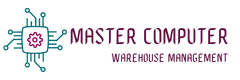
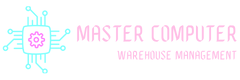
header footer redesigned

Changed region(s): [[0.0, 0.075, 0.9917, 0.925], [0.4667, 0.625, 0.9917, 0.775]]

diff --git a/src/Components/CommonSection/Footer/Footer.js b/src/Components/CommonSection/Footer/Footer.js
@@ -9,33 +9,34 @@ import './Footer.css'
 
 const Footer = () => {
     const copy = '©'
+
+    //dynamic year finding
     const today = new Date();
     const year = today.getFullYear();
 
     return (
 
-        <footer className="text-white text-center text-lg-start bg-dark">
+        <footer className="text-white text-center text-lg-start background">
+            <div className="container pt-3">
+                <div className="row mt-2">
 
-            <div className="container p-4">
-
-                <div className="row mt-4">
-
+                    {/* address on footer */}
                     <div className="col-lg-4 col-md-12 mb-4 mb-md-0">
                         <h5 className="text-uppercase mb-4">Master Computer</h5>
-                        <span className="fa-li"><BsFillCursorFill /></span><span  > Sheikhergaon, Ramsree-3301, Habiganj</span><br />
-                        <span className="fa-li"><BsFillEnvelopeFill /></span><span  > contact@mastercomputer.com</span><br />
-                        <span className="fa-li"><BsFillTelephoneFill /></span><span  > +880 1770000000</span>
+                        <span><BsFillCursorFill /></span><span  > Sheikhergaon, Ramsree-3301, Habiganj</span><br />
+                        <span><BsFillEnvelopeFill /></span><span  > contact@mastercomputer.com</span><br />
+                        <span><BsFillTelephoneFill /></span><span  > +880 1770000000</span>
                     </div>
 
 
-
+                    {/* social link on footer */}
                     <div className="col-lg-4 col-md-6 mb-4 mb-md-0">
                         <h5 className="text-uppercase mb-4 pb-1">Social Links</h5>
                         <p>Visit our official social profiles</p>
 
                         <a href="http://www.facebook.com" className='link-style me-2' target='_blank' rel="noopener noreferrer"> <BsFacebook className='fs-5' /></a>
                         <a href="http://www.instagram.com" className='link-style me-2' target='_blank' rel="noopener noreferrer"> <BsInstagram className='fs-5' /></a>
-                        <a href="http://www.linkedin.com" className='link-style' target='_blank' rel="noopener noreferrer"> <BsLinkedin className='fs-5' /></a>
+                        <a href="https://www.linkedin.com/" className='link-style' target='_blank' rel="noopener noreferrer"> <BsLinkedin className='fs-5' /></a>
 
 
                     </div>
@@ -44,18 +45,14 @@ const Footer = () => {
                         <h5 className="text-uppercase mb-4">Opening hours</h5>
 
                         <table className="table text-center text-white">
-                            <tbody className="fw-normal">
-                                <tr>
-                                    <td>Mon - Thu:</td>
-                                    <td>8am - 9pm</td>
-                                </tr>
+                            <tbody className="fw-small">
                                 <tr>
                                     <td>Fri - Sat:</td>
-                                    <td>8am - 1am</td>
+                                    <td>OFF DAYS</td>
                                 </tr>
                                 <tr>
-                                    <td>Sunday:</td>
-                                    <td>9am - 10pm</td>
+                                    <td>Sun - Thu:</td>
+                                    <td>10am - 8pm</td>
                                 </tr>
                             </tbody>
                         </table>
@@ -65,10 +62,9 @@ const Footer = () => {
 
             </div>
 
-
-
-            <div className="text-center p-3">
-                <p><small>copyright {copy} {year} <a className='link-style' href="#">mastercomputer.com</a><span> Developed by <a className='link-style' href="#">mdgulamasib.com</a> </span> </small> </p>
+            {/* copy right message */}
+            <div className="text-center mb-0">
+                <span><small>copyright {copy} {year} <a className='link-style' href="#">mastercomputer.com</a></small> </span>
             </div>
 
 

diff --git a/src/Components/CommonSection/Header/Header.js b/src/Components/CommonSection/Header/Header.js
@@ -10,43 +10,44 @@ import './Header.css'
 const Header = () => {
     const [user] = useAuthState(auth);
 
+    //signout control function is here
     const handleSignOut = () => {
         signOut(auth);
     }
 
 
     return (
-        <>
+        < div>
             <Navbar collapseOnSelect expand="lg" className='custom-navbar'>
                 <Container>
                     <Navbar.Brand as={Link} to='/'><img src={logo} className='me-md-5 ' height={80} alt="" /></Navbar.Brand>
                     <Navbar.Toggle aria-controls="responsive-navbar-nav" />
                     <Navbar.Collapse id="responsive-navbar-nav">
-                        <Nav className="ms-auto custom-text">
-                            <Nav.Link className='me-md-3' as={Link} to="/">Home</Nav.Link>
-                            <Nav.Link className='me-md-3' as={Link} to="/blog">Blog</Nav.Link>
+                        <Nav className="ms-auto">
+                            <Nav.Link className='me-md-3 text-color' as={Link} to="/"><span className='custom-text'>HOME</span></Nav.Link>
+                            <Nav.Link className='me-md-3' as={Link} to="/blog"><span className='custom-text'>BLOG</span></Nav.Link>
 
                             {
                                 user ?
                                     <Nav>
-                                        <Nav.Link className='me-md-3' as={Link} to="/manageinventory">Manage Items</Nav.Link>
-                                        <Nav.Link className='me-md-3' as={Link} to="/addnewitem">Add Item</Nav.Link>
-                                        <Nav.Link className='me-md-3' as={Link} to="/myitems">My Items</Nav.Link>
+                                        <Nav.Link className='me-md-3' as={Link} to="/manageinventory"><span className='custom-text'>MANAGE ITEMS</span></Nav.Link>
+                                        <Nav.Link className='me-md-3' as={Link} to="/addnewitem"><span className='custom-text'>ADD ITEMS</span></Nav.Link>
+                                        <Nav.Link className='me-md-3' as={Link} to="/myitems"><span className='custom-text'>MY ITEMS</span></Nav.Link>
                                         <Nav.Link onClick={handleSignOut} >
-                                            Sign-out
+                                            <span className='custom-text'>LOGOUT</span>
                                         </Nav.Link>
                                     </Nav>
                                     :
 
                                     <Nav.Link as={Link} to="login">
-                                        Login
+                                        <span className='custom-text'>LOGIN</span>
                                     </Nav.Link>}
 
                         </Nav>
                     </Navbar.Collapse>
                 </Container>
             </Navbar>
-        </>
+        </div>
     );
 };
 

diff --git a/src/Components/CommonSection/Header/Header.css b/src/Components/CommonSection/Header/Header.css
@@ -1,8 +1,14 @@
+/* navbar background color */
 .custom-navbar {
-    background-color: rgba(199, 247, 247, 0.233);
+    background-color: rgb(11, 8, 43);
 }
 
+/* navbar text color and hover effect*/
 .custom-text {
-    font-size: 18px;
-    font-weight: 700;
+    font-size: 15px;
+    color: white;
+}
+
+.custom-text:hover {
+    color: goldenrod;
 }

diff --git a/src/Components/Pages/Home/Banner/Banner.js b/src/Components/Pages/Home/Banner/Banner.js
@@ -1,6 +1,5 @@
 import React from 'react';
 import './Banner.css';
-import { Carousel, CarouselItem, NavItem } from 'react-bootstrap';
 import img1 from '../../../../images/banner/img1.png'
 import img2 from '../../../../images/banner/img2.png'
 import img3 from '../../../../images/banner/img3.png'

diff --git a/src/Components/Pages/Home/Banner/Banner.css b/src/Components/Pages/Home/Banner/Banner.css
@@ -1,6 +1,6 @@
 .background-img {
     background-image: url('../../../../images/banner_bg.png');
-    opacity: 0.8;
+
     color: rgb(227, 241, 241);
 }
 
@@ -13,7 +13,6 @@
     align-items: center;
     text-align: center;
 }
-
 
 @media only screen and (max-width:576px) {
     .highlighting {

diff --git a/src/Components/CommonSection/Footer/Footer.css b/src/Components/CommonSection/Footer/Footer.css
@@ -1,3 +1,9 @@
+/* footer background */
+.background {
+    background-color: rgb(11, 8, 43);
+}
+
+/* social link decoration none */
 .link-style {
     text-decoration: none;
 }
